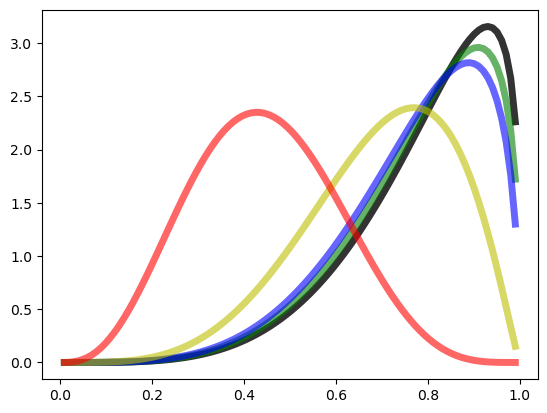
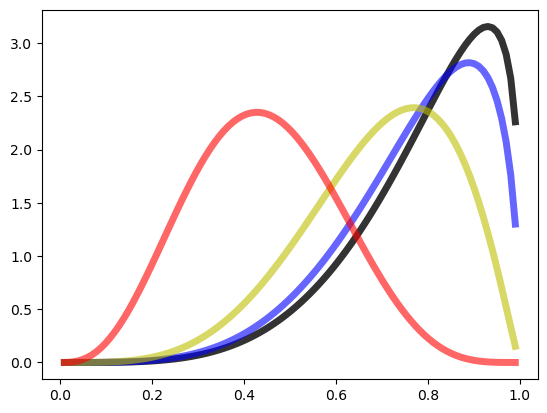
get rid of "super dist"

diff --git a/utils/boxent.py b/utils/boxent.py
@@ -5,13 +5,11 @@ class BoxofEntities:
     def __init__(self, dists: """dict of beta distributions for dists""" = None):
         if dists:
             self.exact_dist = dists["exact"]
-            self.super_dist = dists["super"]
             self.close_dist = dists["close"]
             self.ish_dist = dists["ish"]
             self.not_dist = dists["not"]
         else:
             self.exact_dist = beta(5, 1.3)
-            self.super_dist = beta(5, 1.4)
             self.close_dist = beta(5, 1.5)
             self.ish_dist = beta(5, 2.2)
             self.not_dist = beta(4, 5)
@@ -72,13 +70,13 @@ class BoxofEntities:
                 "toddler": self.close_dist,
                 "cupboard": self.not_dist,
                 "hedgehog": self.ish_dist,
-                "teenager": self.super_dist,
+                "teenager": self.close_dist,
                 "coatrack": self.not_dist,
                 "rat": self.ish_dist,
                 "grandmother": self.close_dist,
                 "bed": self.not_dist,
                 "hamster": self.ish_dist,
-                "grandfather": self.super_dist,
+                "grandfather": self.close_dist,
                 "futon": self.not_dist,
             },
             "chair": {
@@ -90,7 +88,7 @@ class BoxofEntities:
                 "table": self.close_dist,
                 "fox": self.not_dist,
                 "child": self.not_dist,
-                "stool": self.super_dist,
+                "stool": self.close_dist,
                 "ferret": self.not_dist,
                 "boy": self.not_dist,
                 "desk": self.close_dist,
@@ -159,7 +157,7 @@ class BoxofEntities:
                 "boy": self.close_dist,
                 "desk": self.not_dist,
                 "raccoon": self.ish_dist,
-                "girl": self.super_dist,
+                "girl": self.close_dist,
                 "shelf": self.not_dist,
                 "squirrel": self.ish_dist,
                 "doll": self.close_dist,
@@ -168,10 +166,10 @@ class BoxofEntities:
                 "toddler": self.close_dist,
                 "cupboard": self.not_dist,
                 "hedgehog": self.ish_dist,
-                "teenager": self.super_dist,
+                "teenager": self.close_dist,
                 "coatrack": self.not_dist,
                 "rat": self.ish_dist,
-                "grandmother": self.super_dist,
+                "grandmother": self.close_dist,
                 "bed": self.not_dist,
                 "hamster": self.ish_dist,
                 "grandfather": self.close_dist,
@@ -189,7 +187,7 @@ class BoxofEntities:
                 "stool": self.close_dist,
                 "ferret": self.not_dist,
                 "boy": self.not_dist,
-                "desk": self.super_dist,
+                "desk": self.close_dist,
                 "raccoon": self.not_dist,
                 "girl": self.not_dist,
                 "shelf": self.close_dist,
@@ -252,19 +250,19 @@ class BoxofEntities:
                 "child": self.exact_dist,
                 "stool": self.not_dist,
                 "ferret": self.ish_dist,
-                "boy": self.super_dist,
+                "boy": self.close_dist,
                 "desk": self.not_dist,
                 "raccoon": self.ish_dist,
-                "girl": self.super_dist,
+                "girl": self.close_dist,
                 "shelf": self.not_dist,
                 "squirrel": self.ish_dist,
                 "doll": self.close_dist,
                 "dresser": self.not_dist,
                 "skunk": self.ish_dist,
-                "toddler": self.super_dist,
+                "toddler": self.close_dist,
                 "cupboard": self.not_dist,
                 "hedgehog": self.ish_dist,
-                "teenager": self.super_dist,
+                "teenager": self.close_dist,
                 "coatrack": self.not_dist,
                 "rat": self.ish_dist,
                 "grandmother": self.close_dist,
@@ -276,7 +274,7 @@ class BoxofEntities:
             "stool": {
                 "dog": self.not_dist,
                 "man": self.not_dist,
-                "chair": self.super_dist,
+                "chair": self.close_dist,
                 "cat": self.not_dist,
                 "woman": self.not_dist,
                 "table": self.close_dist,
@@ -345,7 +343,7 @@ class BoxofEntities:
                 "woman": self.close_dist,
                 "table": self.not_dist,
                 "fox": self.ish_dist,
-                "child": self.super_dist,
+                "child": self.close_dist,
                 "stool": self.not_dist,
                 "ferret": self.ish_dist,
                 "boy": self.exact_dist,
@@ -357,10 +355,10 @@ class BoxofEntities:
                 "doll": self.close_dist,
                 "dresser": self.not_dist,
                 "skunk": self.ish_dist,
-                "toddler": self.super_dist,
+                "toddler": self.close_dist,
                 "cupboard": self.not_dist,
                 "hedgehog": self.ish_dist,
-                "teenager": self.super_dist,
+                "teenager": self.close_dist,
                 "coatrack": self.not_dist,
                 "rat": self.ish_dist,
                 "grandmother": self.close_dist,
@@ -375,7 +373,7 @@ class BoxofEntities:
                 "chair": self.close_dist,
                 "cat": self.not_dist,
                 "woman": self.not_dist,
-                "table": self.super_dist,
+                "table": self.close_dist,
                 "fox": self.not_dist,
                 "child": self.not_dist,
                 "stool": self.close_dist,
@@ -438,10 +436,10 @@ class BoxofEntities:
                 "man": self.close_dist,
                 "chair": self.not_dist,
                 "cat": self.ish_dist,
-                "woman": self.super_dist,
+                "woman": self.close_dist,
                 "table": self.not_dist,
                 "fox": self.ish_dist,
-                "child": self.super_dist,
+                "child": self.close_dist,
                 "stool": self.not_dist,
                 "ferret": self.ish_dist,
                 "boy": self.close_dist,
@@ -453,10 +451,10 @@ class BoxofEntities:
                 "doll": self.close_dist,
                 "dresser": self.not_dist,
                 "skunk": self.ish_dist,
-                "toddler": self.super_dist,
+                "toddler": self.close_dist,
                 "cupboard": self.not_dist,
                 "hedgehog": self.ish_dist,
-                "teenager": self.super_dist,
+                "teenager": self.close_dist,
                 "coatrack": self.not_dist,
                 "rat": self.ish_dist,
                 "grandmother": self.close_dist,
@@ -483,10 +481,10 @@ class BoxofEntities:
                 "shelf": self.exact_dist,
                 "squirrel": self.not_dist,
                 "doll": self.not_dist,
-                "dresser": self.super_dist,
+                "dresser": self.close_dist,
                 "skunk": self.not_dist,
                 "toddler": self.not_dist,
-                "cupboard": self.super_dist,
+                "cupboard": self.close_dist,
                 "hedgehog": self.not_dist,
                 "teenager": self.not_dist,
                 "coatrack": self.close_dist,
@@ -576,13 +574,13 @@ class BoxofEntities:
                 "desk": self.close_dist,
                 "raccoon": self.not_dist,
                 "girl": self.not_dist,
-                "shelf": self.super_dist,
+                "shelf": self.close_dist,
                 "squirrel": self.not_dist,
                 "doll": self.not_dist,
                 "dresser": self.exact_dist,
                 "skunk": self.not_dist,
                 "toddler": self.not_dist,
-                "cupboard": self.super_dist,
+                "cupboard": self.close_dist,
                 "hedgehog": self.not_dist,
                 "teenager": self.not_dist,
                 "coatrack": self.close_dist,
@@ -633,13 +631,13 @@ class BoxofEntities:
                 "woman": self.close_dist,
                 "table": self.not_dist,
                 "fox": self.ish_dist,
-                "child": self.super_dist,
+                "child": self.close_dist,
                 "stool": self.not_dist,
                 "ferret": self.ish_dist,
-                "boy": self.super_dist,
+                "boy": self.close_dist,
                 "desk": self.not_dist,
                 "raccoon": self.ish_dist,
-                "girl": self.super_dist,
+                "girl": self.close_dist,
                 "shelf": self.not_dist,
                 "squirrel": self.ish_dist,
                 "doll": self.close_dist,
@@ -672,10 +670,10 @@ class BoxofEntities:
                 "desk": self.close_dist,
                 "raccoon": self.not_dist,
                 "girl": self.not_dist,
-                "shelf": self.super_dist,
+                "shelf": self.close_dist,
                 "squirrel": self.not_dist,
                 "doll": self.not_dist,
-                "dresser": self.super_dist,
+                "dresser": self.close_dist,
                 "skunk": self.not_dist,
                 "toddler": self.not_dist,
                 "cupboard": self.exact_dist,
@@ -729,13 +727,13 @@ class BoxofEntities:
                 "woman": self.close_dist,
                 "table": self.not_dist,
                 "fox": self.ish_dist,
-                "child": self.super_dist,
+                "child": self.close_dist,
                 "stool": self.not_dist,
                 "ferret": self.ish_dist,
-                "boy": self.super_dist,
+                "boy": self.close_dist,
                 "desk": self.not_dist,
                 "raccoon": self.ish_dist,
-                "girl": self.super_dist,
+                "girl": self.close_dist,
                 "shelf": self.not_dist,
                 "squirrel": self.ish_dist,
                 "doll": self.close_dist,
@@ -813,7 +811,7 @@ class BoxofEntities:
                 "rat": self.exact_dist,
                 "grandmother": self.ish_dist,
                 "bed": self.not_dist,
-                "hamster": self.super_dist,
+                "hamster": self.close_dist,
                 "grandfather": self.ish_dist,
                 "futon": self.not_dist,
             },
@@ -822,7 +820,7 @@ class BoxofEntities:
                 "man": self.close_dist,
                 "chair": self.not_dist,
                 "cat": self.ish_dist,
-                "woman": self.super_dist,
+                "woman": self.close_dist,
                 "table": self.not_dist,
                 "fox": self.ish_dist,
                 "child": self.close_dist,
@@ -879,7 +877,7 @@ class BoxofEntities:
                 "bed": self.exact_dist,
                 "hamster": self.not_dist,
                 "grandfather": self.not_dist,
-                "futon": self.super_dist,
+                "futon": self.close_dist,
             },
             "hamster": {
                 "dog": self.close_dist,
@@ -906,7 +904,7 @@ class BoxofEntities:
                 "hedgehog": self.close_dist,
                 "teenager": self.ish_dist,
                 "coatrack": self.not_dist,
-                "rat": self.super_dist,
+                "rat": self.close_dist,
                 "grandmother": self.ish_dist,
                 "bed": self.not_dist,
                 "hamster": self.exact_dist,
@@ -915,7 +913,7 @@ class BoxofEntities:
             },
             "grandfather": {
                 "dog": self.ish_dist,
-                "man": self.super_dist,
+                "man": self.close_dist,
                 "chair": self.not_dist,
                 "cat": self.ish_dist,
                 "woman": self.close_dist,
@@ -972,7 +970,7 @@ class BoxofEntities:
                 "coatrack": self.close_dist,
                 "rat": self.not_dist,
                 "grandmother": self.not_dist,
-                "bed": self.super_dist,
+                "bed": self.close_dist,
                 "hamster": self.not_dist,
                 "grandfather": self.not_dist,
                 "futon": self.exact_dist,
@@ -987,7 +985,7 @@ class BoxofEntities:
                 "blue": self.ish_dist,
                 "yellow": self.close_dist,
                 "green": self.ish_dist,
-                "grey": self.super_dist,
+                "grey": self.close_dist,
                 "orange": self.ish_dist,
                 "purple": self.ish_dist,
             },
@@ -999,7 +997,7 @@ class BoxofEntities:
                 "blue": self.ish_dist,
                 "yellow": self.ish_dist,
                 "green": self.ish_dist,
-                "grey": self.super_dist,
+                "grey": self.close_dist,
                 "orange": self.ish_dist,
                 "purple": self.ish_dist,
             },
@@ -1064,8 +1062,8 @@ class BoxofEntities:
                 "purple": self.ish_dist,
             },
             "grey": {
-                "white": self.super_dist,
-                "black": self.super_dist,
+                "white": self.close_dist,
+                "black": self.close_dist,
                 "brown": self.close_dist,
                 "red": self.ish_dist,
                 "blue": self.close_dist,
